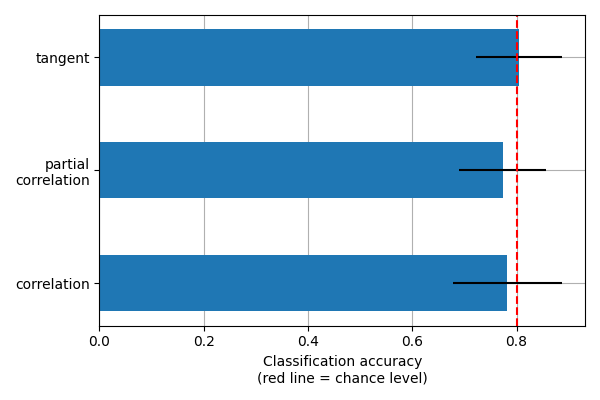
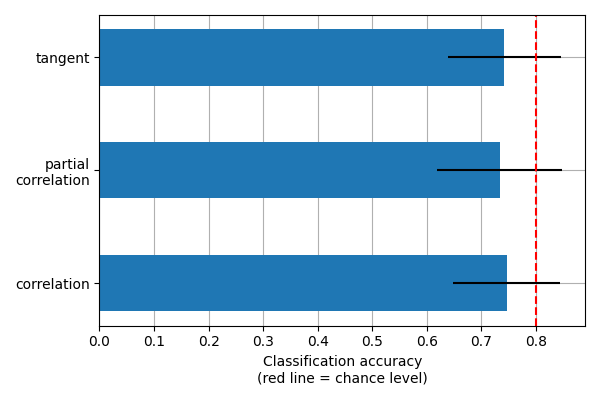
data augmentation

diff --git a/root/tests/test_rnn.py b/root/tests/test_rnn.py
@@ -4,6 +4,7 @@ import numpy as np
 import matplotlib.pyplot as plt
 #matplotlib inline
 import warnings
+
 warnings.filterwarnings("ignore")
 plt.style.use('ggplot')
 
@@ -17,12 +18,11 @@ from sklearn.metrics import roc_curve
 from sklearn import metrics
 
 #keras - for NN models
+from tensorflow import keras
 from keras.models import Model, Sequential
 from keras.layers import Input, Dense
 from keras.layers import LSTM, GRU
 from keras import optimizers
-from tensorflow.keras.utils import plot_model
-from tensorflow.keras import utils
 from sklearn.metrics import roc_curve
 from keras.utils.vis_utils import plot_model
 import tensorflow as tf
@@ -111,7 +111,8 @@ def get_train_test(X, y, i, verbrose=False):
 
 
 def test_rnn():
-    TIME_SERIES_FOLDER = "/Users/eb/PycharmProjects/neuroNL2/root/bin/output/stopsignal2/time_series/"
+    TIME_SERIES_FOLDER = "/home/eb/PycharmProjects/neuroNL2/root/bin/output/stopsignal2/time_series_dict/"
+    #TIME_SERIES_FOLDER = "/home/eb/PycharmProjects/neuroNL2/root/bin/output/bart2/time_series_dict/"
     all_subjects_data, labels = generate_labels(TIME_SERIES_FOLDER)
 
     print('N control:', labels.count(1))
@@ -158,16 +159,11 @@ def test_rnn():
     t_shape = np.array(all_subjects_data_reshaped).shape[1]
     RSN_shape = np.array(all_subjects_data_reshaped).shape[2]
 
-    model.add(LSTM(units=70,  # dimensionality of the output space
-                   dropout=0.4,  # Fraction of the units to drop (inputs)
-                   recurrent_dropout=0.15,  # Fraction of the units to drop (recurent state)
-                   return_sequences=True,  # return the last state in addition to the output
-                   input_shape=(t_shape, RSN_shape)))
-    model.add(GRU(units=70,  # dimensionality of the output space
-                   dropout=0.4,  # Fraction of the units to drop (inputs)
-                   recurrent_dropout=0.15,  # Fraction of the units to drop (recurent state)
-                   return_sequences=True,  # return the last state in addition to the output
-                   input_shape=(t_shape, RSN_shape)))
+    # model.add(LSTM(units=70,  # dimensionality of the output space
+    #                dropout=0.4,  # Fraction of the units to drop (inputs)
+    #                recurrent_dropout=0.15,  # Fraction of the units to drop (recurent state)
+    #                return_sequences=True,  # return the last state in addition to the output
+    #                input_shape=(t_shape, RSN_shape)))
 
     # model.add(LSTM(units=60,
     #                dropout=0.4,
@@ -183,6 +179,11 @@ def test_rnn():
     #                dropout=0.4,
     #                recurrent_dropout=0.15,
     #                return_sequences=False))
+    model.add(GRU(units=70,  # dimensionality of the output space
+                  dropout=0.4,  # Fraction of the units to drop (inputs)
+                  recurrent_dropout=0.15,  # Fraction of the units to drop (recurent state)
+                  return_sequences=True,  # return the last state in addition to the output
+                  input_shape=(t_shape, RSN_shape)))
 
     model.add(GRU(units=60,
                    dropout=0.4,
@@ -224,6 +225,7 @@ def test_rnn():
     X = all_subjects_data_reshaped
     y = labels
 
+
     #changel labels to 0 1
     print(y)
     for i in range(len(y)):
@@ -237,8 +239,21 @@ def test_rnn():
     i = 8
     verbrose = True
 
+    ## data augmentation
+    from imblearn.over_sampling import SMOTE
+
+    sm = SMOTE(random_state=42)
+
+    nsamples, nx, ny = np.asarray(X).shape
+    X = np.asarray(X).reshape((nsamples, nx * ny))
+
+    X, y = sm.fit_resample(X, y)
+    ##
+
     X_train, X_test, y_train, y_test = train_test_split(X,
                                                         y, test_size=0.2, random_state=i)
+
+
 
     # Reshapes data to 4D for Hierarchical RNN.
     t_shape = np.array(all_subjects_data_reshaped).shape[1]
@@ -255,8 +270,8 @@ def test_rnn():
         print(X_test.shape[0], 'test samples')
 
     # Converts class vectors to binary class matrices.
-    y_train = utils.to_categorical(y_train, 2)
-    y_test = utils.to_categorical(y_test, 2)
+    y_train = tf.keras.utils.to_categorical(y_train, 2)
+    y_test = tf.keras.utils.to_categorical(y_test, 2)
 
     history = model.fit(X_train, y_train, validation_split=0.2, epochs=30)
 

diff --git a/root/tests/test.py b/root/tests/test.py
@@ -20,23 +20,23 @@ import time
     #images = nilearn.image.load_img(images_abs_paths[0:15] + images_abs_paths[-16:-1])
     ## ko bart
 
-
-# t = time.time()
-# IMAGES_FOLDER = "/home/eb/Desktop/stopsignal_cleaned/"
-# OUTPUT_FOLDER = "../bin/output/stopsignal/"
-# generate_ica_time_series(IMAGES_FOLDER, OUTPUT_FOLDER)
-# elapsed = time.time() - t
-# print("generate_ica_time_series: ", elapsed)
-#generate_ica_time_series:  2562.8496882915497 - 43 mins
+#STOPSIGNAL
+t = time.time()
+FILES  =  "/home/eb/Desktop/stopsignal/"
+CONFOUNDS =  "/home/eb/Desktop/stopsignal_confounds/"
+OUTPUT_FOLDER = "/home/eb/Desktop/stopsignal_cleaned/"
+images_cleaner(FILES, CONFOUNDS, OUTPUT_FOLDER)
+elapsed = time.time() - t
+print("images_cleaner: ", elapsed)
+#images_cleaner:  6574.576639652252 - 110 mins
 
 t = time.time()
 IMAGES_FOLDER = "/home/eb/Desktop/stopsignal_cleaned/"
-OUTPUT_FOLDER = "../bin/output/stopsignal2/"
-CONFOUNDS = "/home/eb/Desktop/stopsignal_confounds/"
-generate_ica_time_series_NILEARN(IMAGES_FOLDER, OUTPUT_FOLDER, CONFOUNDS)
+OUTPUT_FOLDER = "../bin/output/stopsignal/"
+generate_ica_time_series(IMAGES_FOLDER, OUTPUT_FOLDER)
 elapsed = time.time() - t
-print("generate_ica_time_series2: ", elapsed)
-#generate_ica_time_series:
+print("generate_ica_time_series: ", elapsed)
+#generate_ica_time_series:  2562.8496882915497 - 43 mins
 
 t = time.time()
 TIME_SERIES_FOLDER = "../bin/output/stopsignal2/time_series/"
@@ -47,13 +47,14 @@ print("clustering: ", elapsed)
 #clustering:  36.4996874332428 - 35 secs
 
 
-# t = time.time()
-# FILES  =  "/home/eb/Desktop/bart/"
-# CONFOUNDS =  "/home/eb/Desktop/bart_confounds/"
-# OUTPUT_FOLDER = "/home/eb/Desktop/bart_cleaned/"
-# images_cleaner(FILES, CONFOUNDS, OUTPUT_FOLDER)
-# elapsed = time.time() - t
-# print("images_cleaner: ", elapsed)
+#BART
+t = time.time()
+FILES  =  "/home/eb/Desktop/bart/"
+CONFOUNDS =  "/home/eb/Desktop/bart_confounds/"
+OUTPUT_FOLDER = "/home/eb/Desktop/bart_cleaned/"
+images_cleaner(FILES, CONFOUNDS, OUTPUT_FOLDER)
+elapsed = time.time() - t
+print("images_cleaner: ", elapsed)
 # #images_cleaner:  6574.576639652252 - 110 mins
 
 t = time.time()

diff --git a/root/clustering.py b/root/clustering.py
@@ -42,11 +42,19 @@ def clustering(TIME_SERIES_FOLDER, OUTPUT_FOLDER):
     kinds = ['correlation', 'partial correlation', 'tangent']
     #kinds = ['correlation']
 
-    cv = StratifiedShuffleSplit(n_splits=15, random_state=0, test_size=15)
+    n_splits = 15
+    test_size = 15
+    cv = StratifiedShuffleSplit(n_splits=n_splits, random_state=0, test_size=test_size)
     pooled_subjects = np.asarray(pooled_subjects)
+
+    print("## DATA ##")
+    print("dataset_size: ", len(time_series_filenames))
+    print("test_size :", test_size)
+    print("n_splits: ", n_splits, "\n")
 
     scores = {}
     for kind in kinds:
+        print("## ", kind, " ##")
         scores[kind] = []
         for train, test in cv.split(pooled_subjects, classes):
             # *ConnectivityMeasure* can output the estimated subjects coefficients
@@ -59,13 +67,22 @@ def clustering(TIME_SERIES_FOLDER, OUTPUT_FOLDER):
             # make predictions for the left-out test subjects
             predictions = classifier.predict(
                 connectivity.transform(pooled_subjects[test]))
-            # print(predictions)
-            # print(classes[test])
+
+            #print results
+            # print("classes: ", classes[test])
+            # print("predict: ", predictions)
+            # print("accuracy :", accuracy_score(classes[test], predictions), "\n")
+
             # store the accuracy for this cross-validation fold
             scores[kind].append(accuracy_score(classes[test], predictions))
 
     mean_scores = [np.mean(scores[kind]) for kind in kinds]
     scores_std = [np.std(scores[kind]) for kind in kinds]
+
+    print("FINAL RESULTS")
+    print("kinds: ", kinds)
+    print("mean_scores: ", mean_scores)
+    print("scores_std: ", scores_std, "\n")
 
     plt.figure(figsize=(6, 4))
     positions = np.arange(len(kinds)) * .1 + .1

diff --git a/root/tests/test_dict_NILEARN.py b/root/tests/test_dict_NILEARN.py
@@ -1,16 +1,18 @@
 import time
 
+from root.clustering import clustering
 from root.generate_dict_time_series_NILEARN import generate_dict_time_series_NILEARN
 
 
 def test_dict_NILEARN():
-    t = time.time()
-    IMAGES_FOLDER = "/home/eb/Desktop/stopsignal/"
-    CONFOUNDS = "/home/eb/Desktop/stopsignal_confounds/"
-    OUTPUT_FOLDER = "../bin/output/stopsignal2/"
-    generate_dict_time_series_NILEARN(IMAGES_FOLDER, OUTPUT_FOLDER, CONFOUNDS)
-    elapsed = time.time() - t
-    print("generate_dict_time_series2 - stopsignal: ", elapsed)
+    # t = time.time()
+    # IMAGES_FOLDER = "/home/eb/Desktop/stopsignal/"
+    # CONFOUNDS = "/home/eb/Desktop/stopsignal_confounds/"
+    # OUTPUT_FOLDER = "../bin/output/stopsignal2/"
+    # generate_dict_time_series_NILEARN(IMAGES_FOLDER, OUTPUT_FOLDER, CONFOUNDS)
+    # elapsed = time.time() - t
+    # print("generate_dict_time_series2 - stopsignal: ", elapsed)
+    # #generate_dict_time_series2 - stopsignal:  1294.1882195472717 -- 22 mins
 
     # t = time.time()
     # TIME_SERIES_FOLDER = "../bin/output/stopsignal2/time_series_dict/"
@@ -19,3 +21,15 @@ def test_dict_NILEARN():
     # elapsed = time.time() - t
     # print("clustering2 - stopsignal: ", elapsed)
     # # clustering: 58.56087112426758 -- 59 secs
+
+    t = time.time()
+    IMAGES_FOLDER = "/home/eb/Desktop/bart/"
+    CONFOUNDS = "/home/eb/Desktop/bart_confounds/"
+    OUTPUT_FOLDER = "../bin/output/bart2/"
+    generate_dict_time_series_NILEARN(IMAGES_FOLDER, OUTPUT_FOLDER, CONFOUNDS)
+    elapsed = time.time() - t
+    print("generate_dict_time_series2 - bart: ", elapsed)
+    #generate_dict_time_series2 - bart:  2034.8166592121124
+
+
+test_dict_NILEARN()

diff --git a/root/generate_dict_time_series_NILEARN.py b/root/generate_dict_time_series_NILEARN.py
@@ -67,7 +67,8 @@ def extract_components(images_abs_paths, OUTPUT_FOLDER):
                               memory="nilearn_cache", memory_level=2,
                               random_state=0,
                               low_pass=0.08,
-                              high_pass=0.01)
+                              high_pass=0.01,
+                              t_r=2)
     # Fit to the data
     dict_learn.fit(images)
     # Resting state networks/maps in attribute `components_img_`

diff --git a/root/tests/test_clustering.py b/root/tests/test_clustering.py
@@ -1,5 +1,5 @@
 from root.clustering import clustering
 
-TIME_SERIES_FOLDER = "../bin/output/test/time_series/"
+TIME_SERIES_FOLDER = "../bin/output/stopsignal2/time_series/"
 OUTPUT_FOLDER = "../bin/output/test/"
 clustering(TIME_SERIES_FOLDER, OUTPUT_FOLDER)
